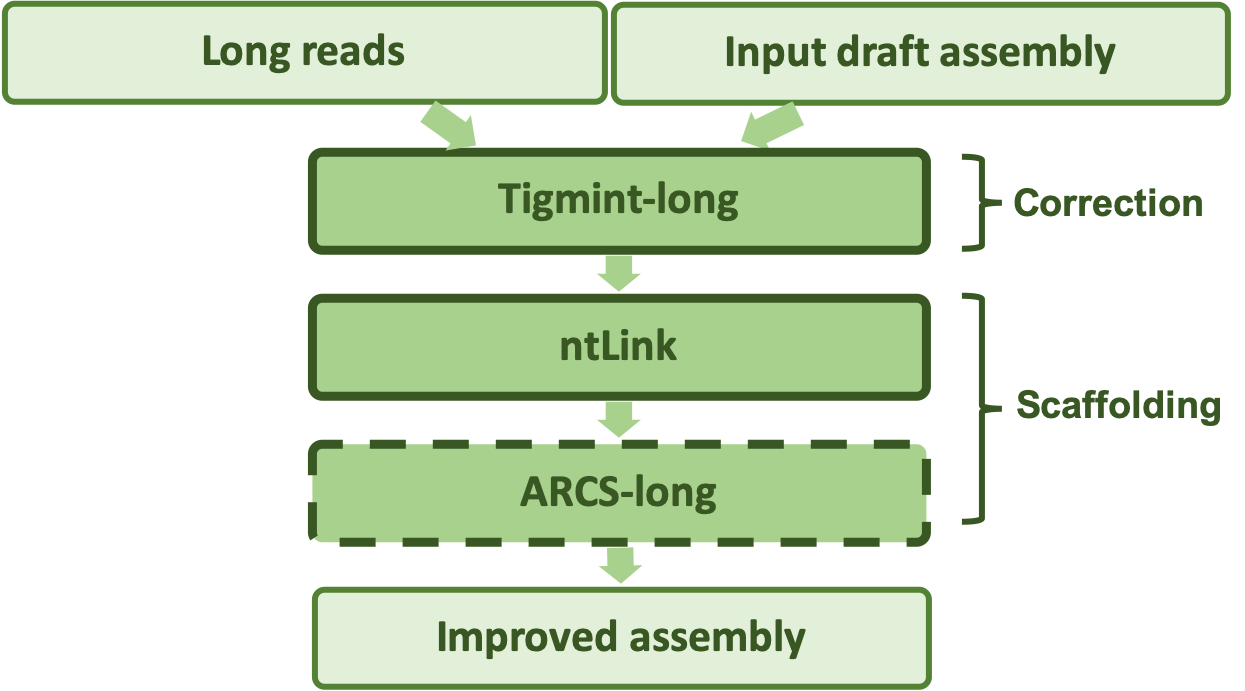
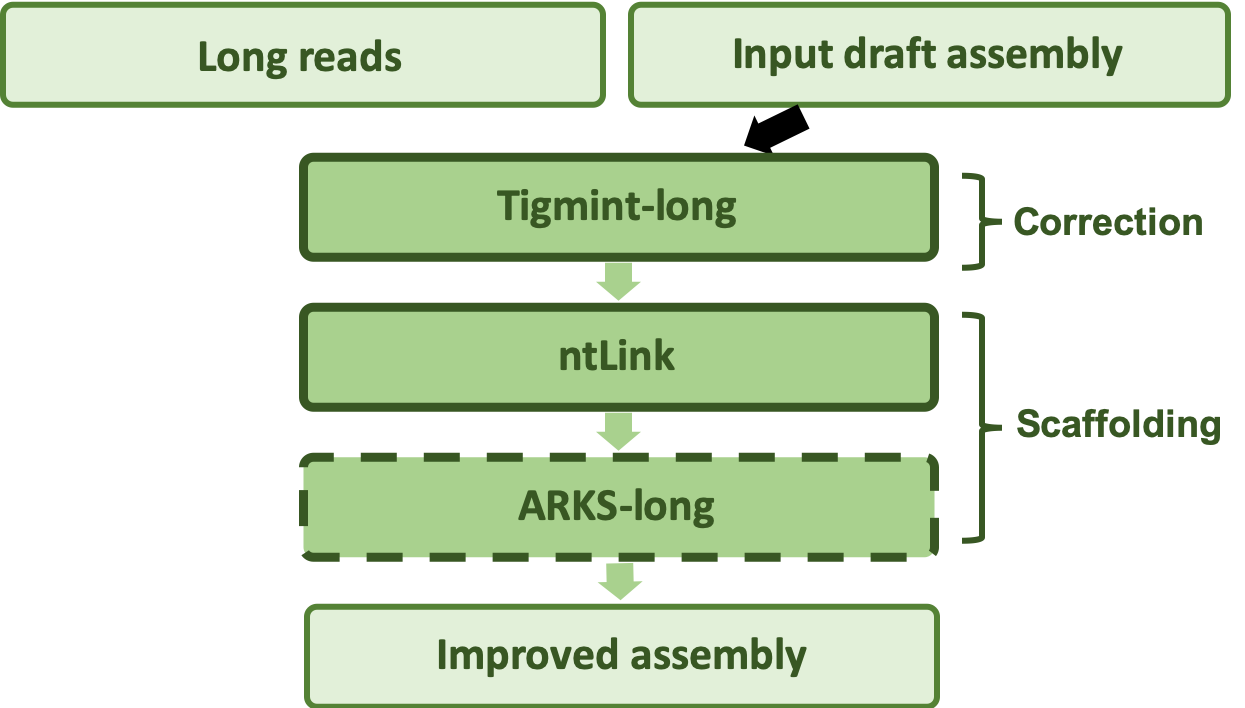
v1.0.0 (#12)
* Update README.md, version updates

* Update schematic image

diff --git a/README.md b/README.md
@@ -1,17 +1,17 @@
 # LongStitch
-A long-read scaffolding pipeline that consists of three stages:
+A genome assembly correction and scaffolding pipeline using long reads, consisting of two or three steps:
 * [Tigmint](https://github.com/bcgsc/tigmint) cuts the draft assembly at potentially misassembled regions
 * [ntLink](https://github.com/bcgsc/ntLink) is then used to scaffold the corrected assembly
-* followed by [ARCS](https://github.com/bcgsc/arcs) for further scaffolding (optional extra step of scaffolding)
+* followed by [ARKS](https://github.com/bcgsc/arcs) for further scaffolding (optional extra step of scaffolding)
 
 <img src="https://github.com/bcgsc/LongStitch/blob/master/LongStitch_overview.png" width="480">
 
 ### Dependencies
-* [Tigmint](https://github.com/bcgsc/tigmint)
-* [ntLink](https://github.com/bcgsc/ntLink)
-* [ARCS](https://github.com/bcgsc/arcs)
-* [ABySS](https://github.com/bcgsc/abyss)
-* [LINKS](https://github.com/bcgsc/links)
+* [Tigmint](https://github.com/bcgsc/tigmint) v1.2.3+
+* [ntLink](https://github.com/bcgsc/ntLink) v1.0.0+
+* [ARCS/ARKS](https://github.com/bcgsc/arcs) v1.2.2+
+* [ABySS](https://github.com/bcgsc/abyss) v2.0.0+
+* [LINKS](https://github.com/bcgsc/links) v1.8.5+
 
 
 ### Usage
